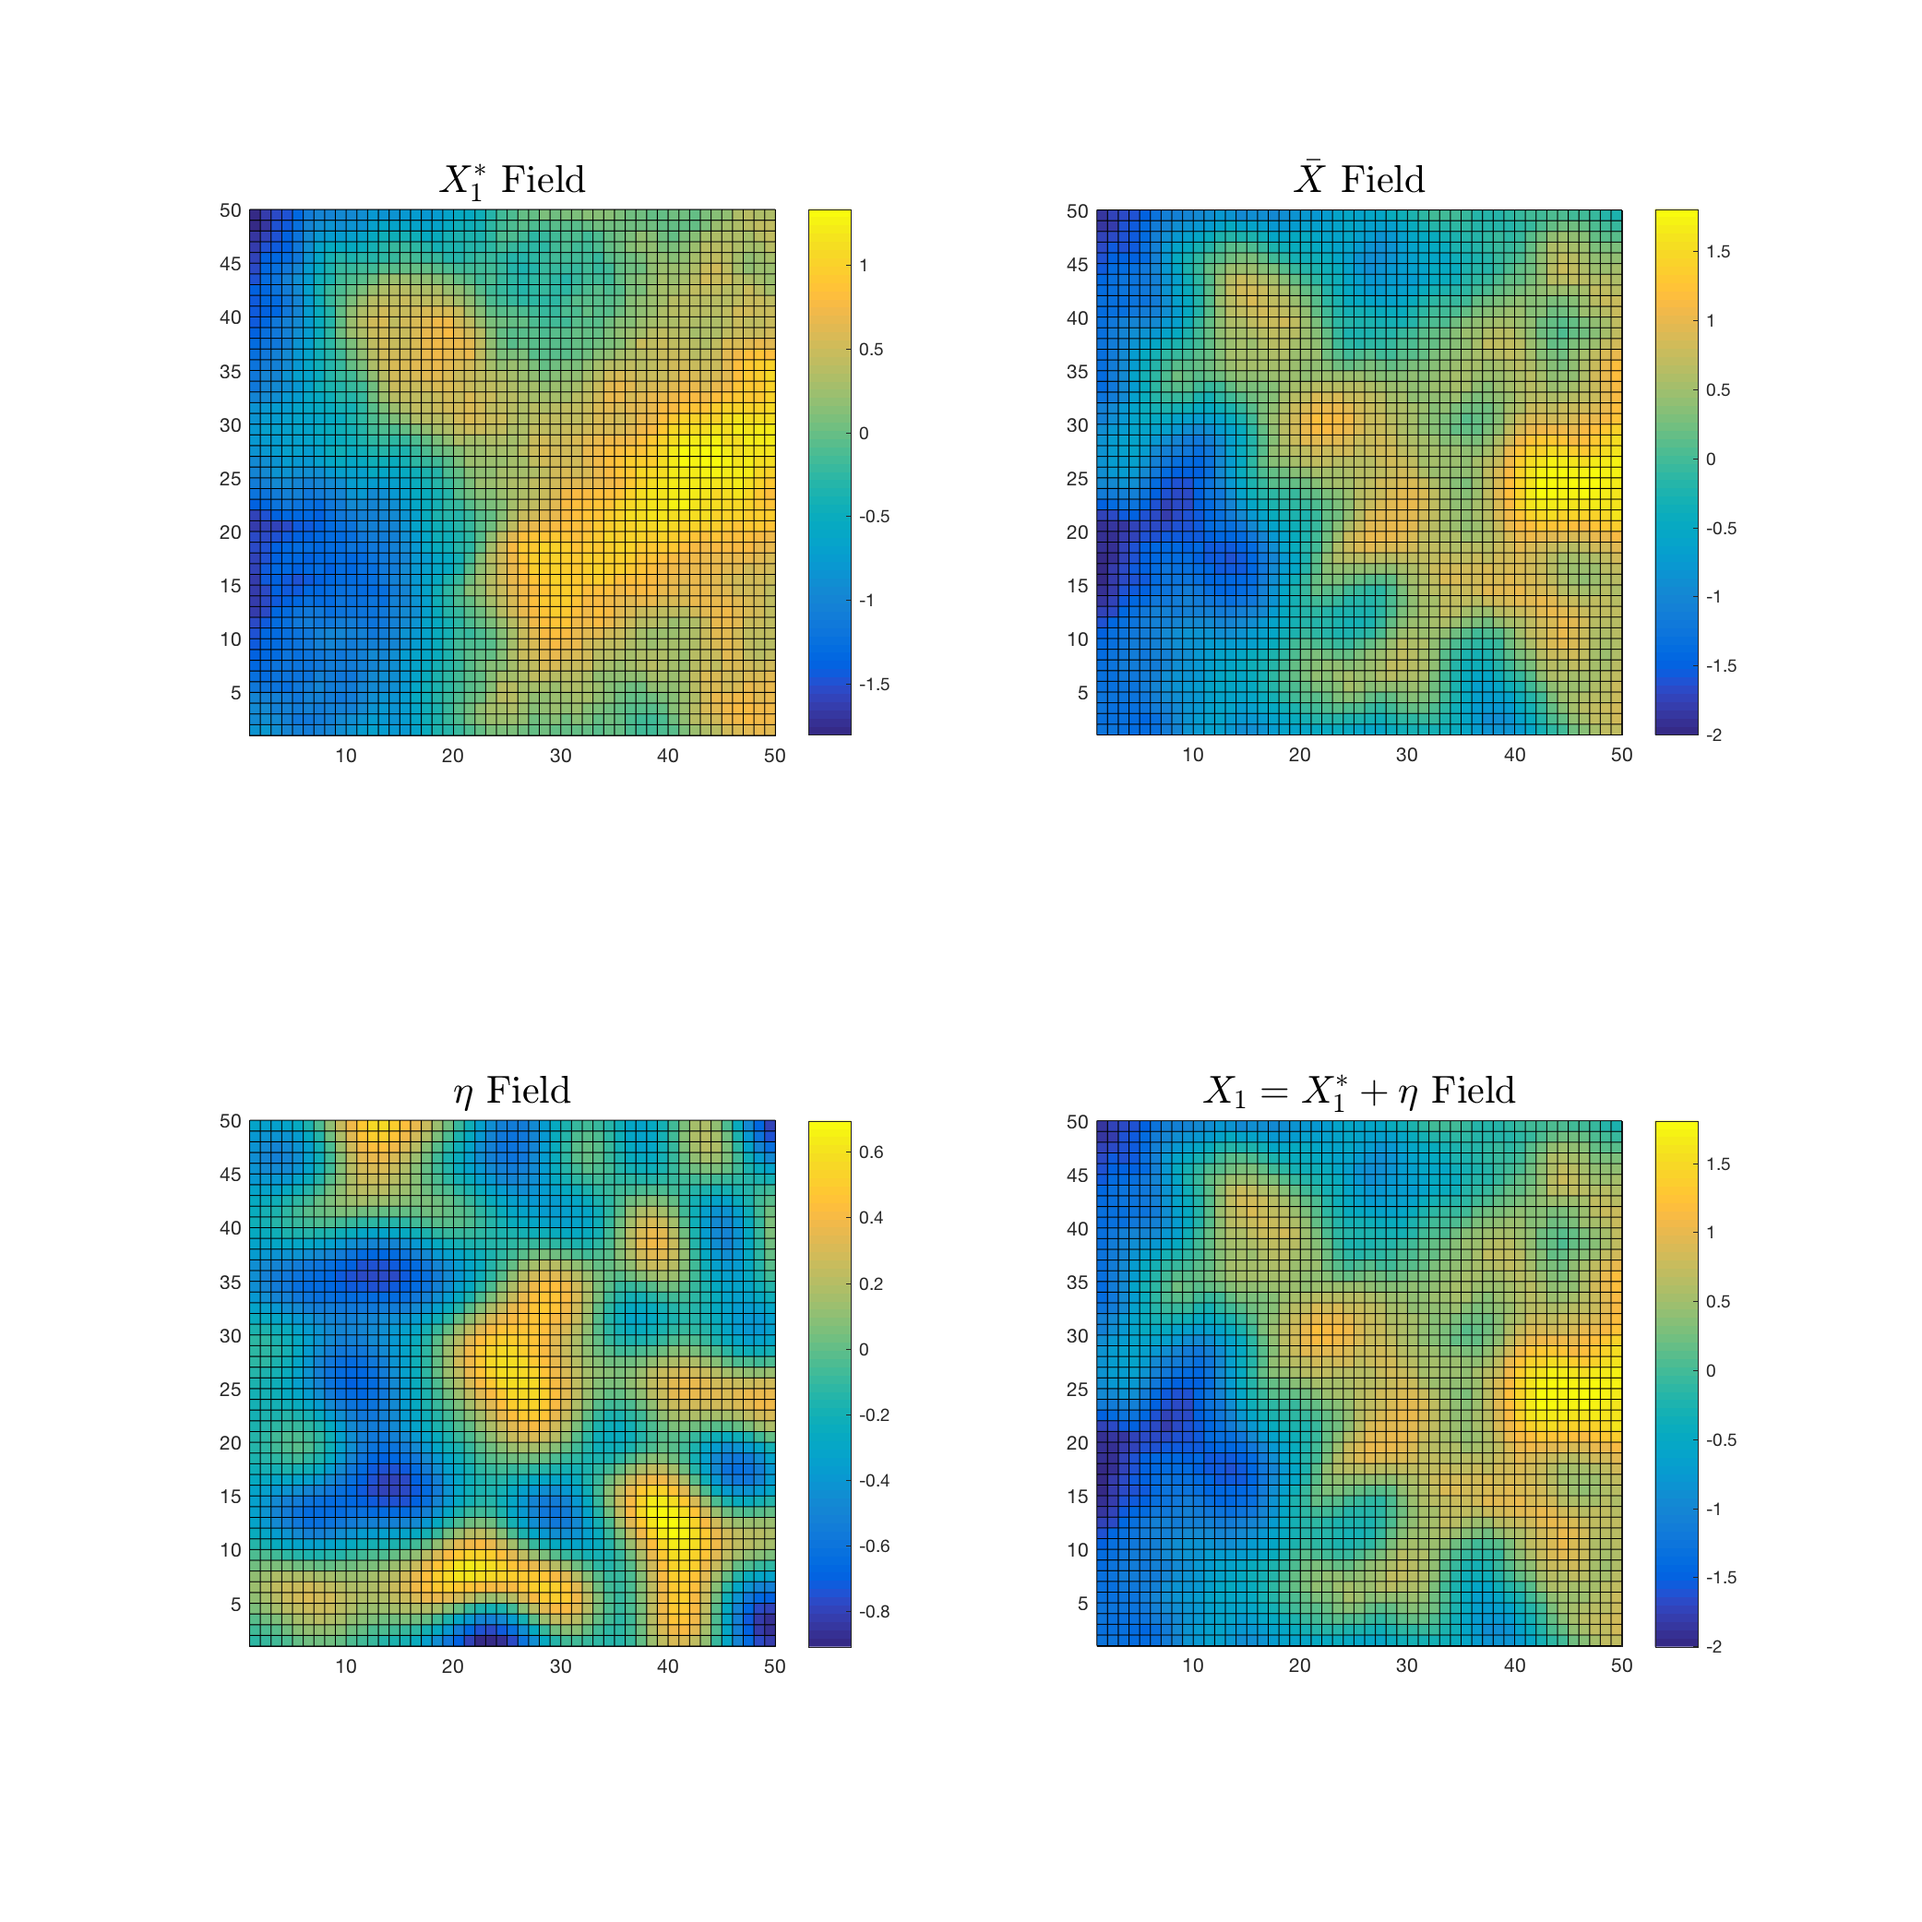
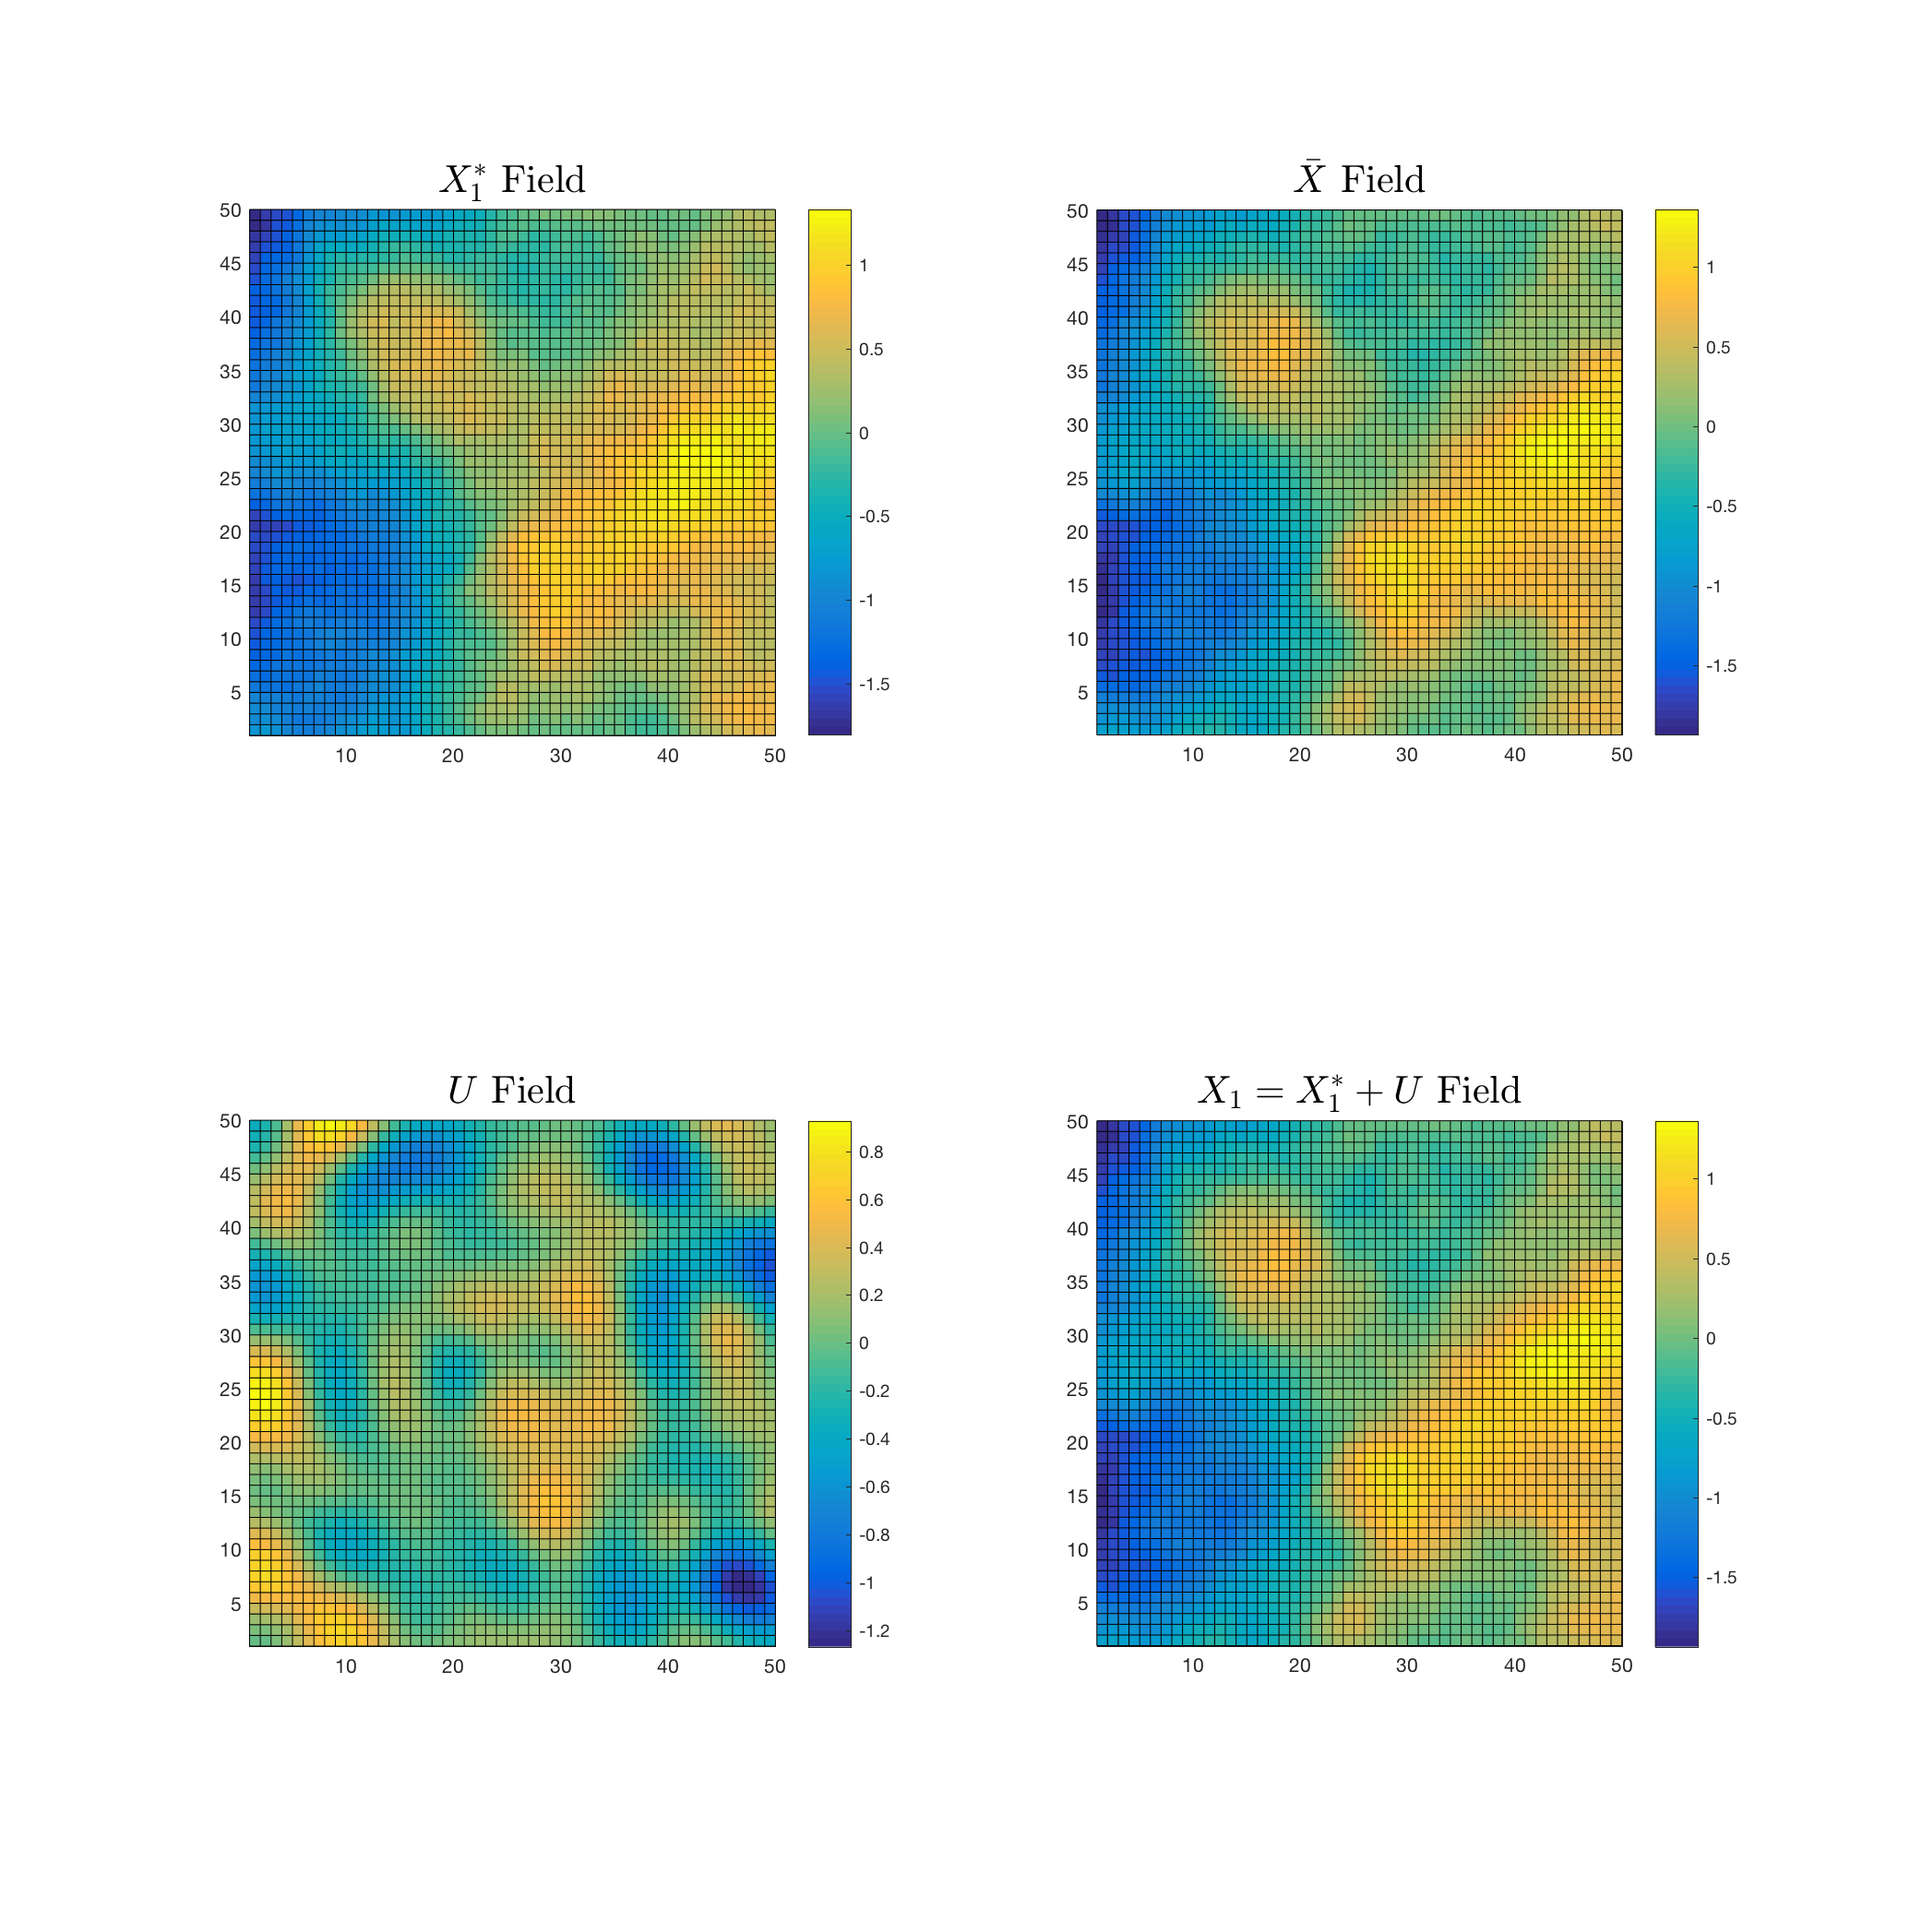
changed var names in plotting

diff --git a/code/makePlots.m b/code/makePlots.m
@@ -74,7 +74,7 @@ print(singlePointCorr,sprintf('%s/ptCorrelation.png',plotDirectory),'-dpng')
 
 % get a sense of the true X1, the ensemble mean, and the ensemble members
 xGen1 = figure('visible','off','Position', [10, 10, 1000, 1500]);
-XensembleSubMat = Xobs(:,1:m);
+XensembleSubMat = Xobs(:,1:L);
 zRange = max(max(abs(XensembleSubMat)));
 
 subplot(3,2,1)
@@ -101,7 +101,7 @@ print(xGen1,sprintf('%s/xGeneration1.png',plotDirectory),'-dpng')
 
 % get a sense of the true X2, the ensemble mean, and the ensemble members
 xGen2 = figure('visible','off','Position', [10, 10, 1000, 1500]);
-XensembleSubMat = Xobs(:,(m+1):2*m);
+XensembleSubMat = Xobs(:,(L+1):2*L);
 zRange = max(max(abs(XensembleSubMat)));
 
 subplot(3,2,1)
@@ -140,13 +140,13 @@ title('$$\bar X$$ Field','interpreter','latex','FontSize',20)
 colorbar
 axis square
 subplot(2,2,3)
-pcolor(reshape(Eta(:,1),q,q))
-title('$$\eta$$ Field','interpreter','latex','FontSize',20)
+pcolor(reshape(U(:,1),q,q))
+title('$$U$$ Field','interpreter','latex','FontSize',20)
 colorbar
 axis square
 subplot(2,2,4)
 pcolor(reshape(XensembleMean(:,1),q,q))
-title('$$X_1 = X^*_1 + \eta$$ Field','interpreter','latex','FontSize',20)
+title('$$X_1 = X^*_1 + U$$ Field','interpreter','latex','FontSize',20)
 colorbar
 axis square
 print(xProg,sprintf('%s/xprogression.png',plotDirectory),'-dpng')
